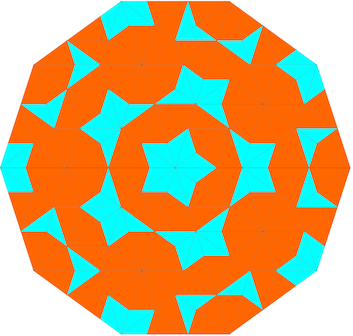
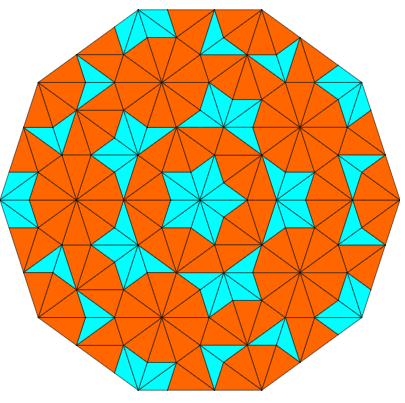
Make smaller SVG with thicker lines

Changed region(s): [[0.0, 0.0, 0.9972, 1.0]]

diff --git a/penrose.py b/penrose.py
@@ -111,11 +111,11 @@ def draw(triangles, fname, sz):
         coords = [p.val for p in t[1:]]
         points = [(sz/2+p.real, sz/2+p.imag) for p in coords]
         dwg.add(dwg.polygon(points=points, fill = color, stroke='black',
-                          stroke_width=0.1))
+                          stroke_width=0.5))
     dwg.save()
 
 if __name__ == "__main__":
-    sz = 350
+    sz = 200
     if sys.argv[1] == 'star':
         t = initial_star(10,sz)
     elif sys.argv[1] == 'sun':
